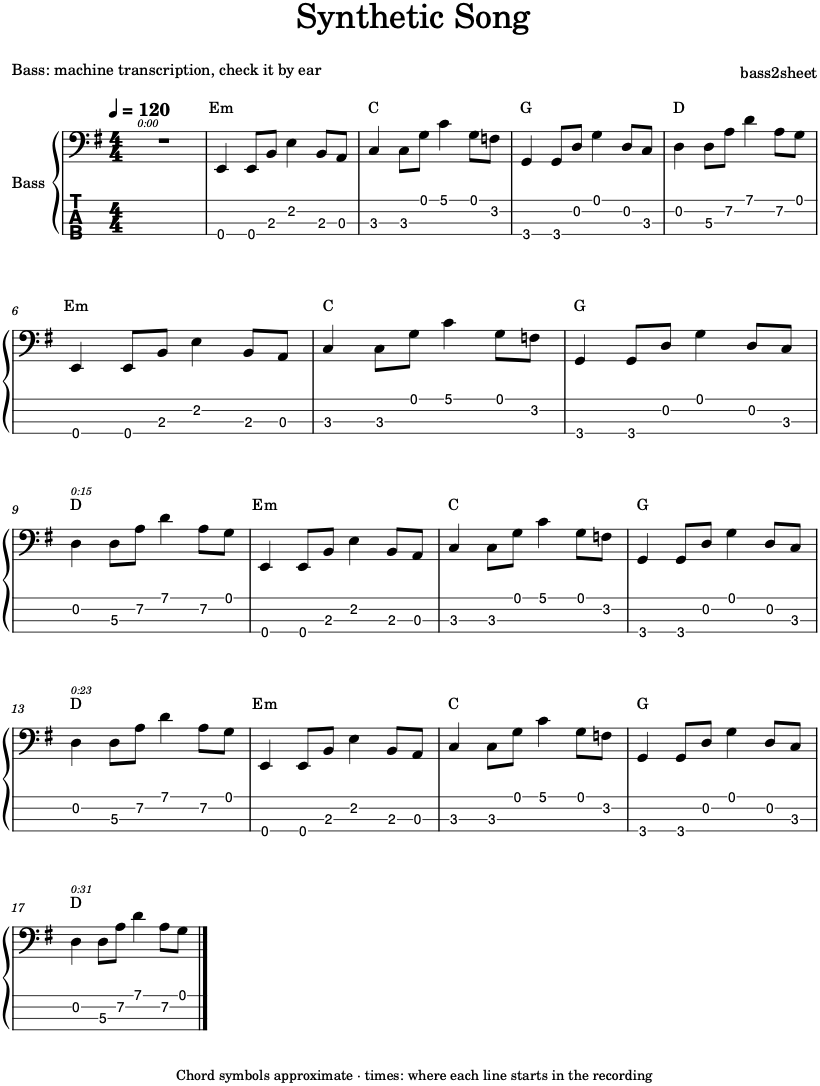
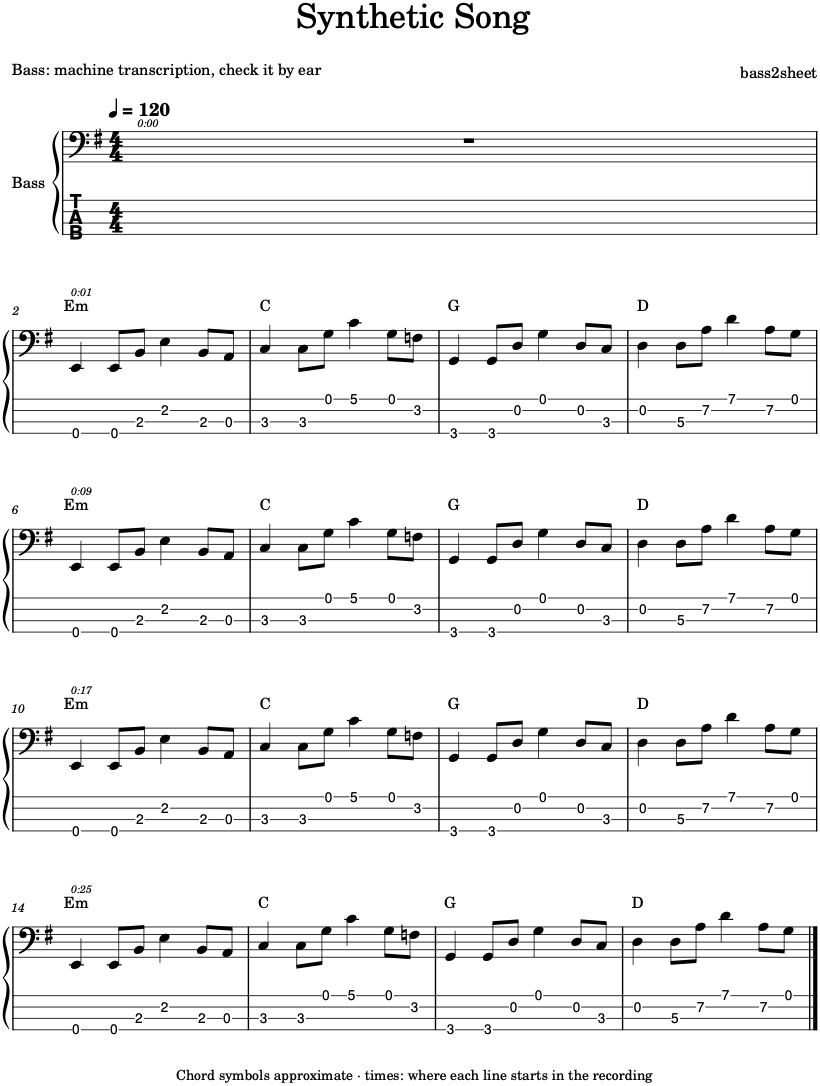
Measured results in README and docs/evaluation.md; MDB and RWC baselines; example score

diff --git a/README.md b/README.md
@@ -64,7 +64,7 @@ A 4-minute song takes about 3 minutes on an M-series MacBook the first time.
 1. **Decode and validate.** Any format to 44.1 kHz stereo. Unreadable, silent, very short or very long input is refused with a message.
 2. **Separate the bass.** BS-RoFormer SW (via [audio-separator](https://github.com/nomadkaraoke/python-audio-separator)) is the default; Demucs `htdemucs_ft` is the fallback when it fails or its result fails the gates.
 3. **Track pitch.** CREPE (Viterbi decoding) on the GPU, with pYIN as a cross-check.
-4. **Find the notes.** Hysteresis on pitch confidence, so a note survives the brief loss of pitch at each pluck; a repeated pitch is split only where the low-band energy jumps; notes hold until the next one; each start moves to where its pluck begins to sound, at 1 ms resolution; notes whose spectrum contradicts their octave are corrected.
+4. **Find the notes.** Hysteresis on pitch confidence, so a note survives the brief loss of pitch at each pluck; a held note is split where the string is plucked again, and only there; notes hold until the next one; each start moves to where its pluck begins to sound, at 1 ms resolution; notes whose spectrum contradicts their octave are corrected.
 5. **Find the grid.** Beats and downbeats come from the [Beat This!](https://github.com/CPJKU/beat_this) model on the full mix. A built-in tracker (beats from drums and bass, the downbeat where the harmony changes) is the fallback. Notes are quantized to sixteenths in 4/4.
 6. **Key and chords.** Rough estimates for the chord symbols and note spelling.
 7. **Engrave.** MusicXML with a tab staff whose fingering comes from a search that keeps the fretting hand in place; MuseScore turns it into the PDF.
@@ -95,7 +95,24 @@ The thresholds come from evaluation runs with ground truth: a gate warns below w
 
 ## Accuracy
 
-<!-- ACCURACY -->
+Version 0.2.0, measured with `bass2sheet-eval`. The full mix goes in, with the same settings for every song.
+
+| Dataset | Songs | Measure | Mean | Median |
+|---|---|---|---|---|
+| BabySlakh: synthetic songs, exact notes | 16 | Notes right: start within 50 ms, exact pitch (F-measure) | 0.88 | 0.95 |
+| | 16 | The same, given the dataset's clean bass track | 0.92 | 0.95 |
+| | 11 | Correct notes written on the right sixteenth of the bar | 0.66 | 0.77 |
+| MDB-bass-synth: real multitrack songs, exact pitch curve | 24 of 71 | Share of the time the bass plays that has the right note | 0.77 | 0.81 |
+| RWC Popular: studio pop, bass transcribed by ear | 24 of 100 | Notes right, start within 100 ms (F-measure) | 0.74 | 0.73 |
+| | | Notes right, start within 50 ms | 0.68 | 0.63 |
+
+What that means in practice:
+
+- **Clean material mostly comes out right.** 12 of the 16 BabySlakh songs score 0.90 or more. Two do badly: one played in very short staccato notes (0.38), and one where over a third of the notes from the separated bass land an octave low (0.49, against 0.87 from the dataset's clean bass track).
+- **Real recordings are harder.** On RWC about a third of the notes differ from the reference: repeated notes written as one long note (14% of the reference's notes), re-attacks the reference does not have (9% of ours) and wrong pitches (6%). The reference was transcribed by ear, so part of the difference is its own.
+- **Pitch is more reliable than rhythmic detail.** Octave errors are 1–3% of the notes.
+- **Tempo is right on nearly every song; bar lines are not.** On BabySlakh, 5 of 11 songs have their notes on the right sixteenth of the bar throughout. On the others the bar lines are off for part or all of the song: finding the downbeat is the hard part, and the fixed 4/4 grid cannot follow a song whose bars change length. RWC scores 1.00 here, but the beat tracker was trained on RWC, so that number says little.
+- **The verdict tracks accuracy.** Over the 80 runs, PASS results averaged 0.96 with none below 0.90, WARN 0.85 and FAIL 0.60. The thresholds were set on these same runs, so expect a looser relation on new songs.
 
 How to reproduce these numbers, and what each dataset can and cannot tell you, is in [docs/evaluation.md](docs/evaluation.md).
 
@@ -104,7 +121,8 @@ How to reproduce these numbers, and what each dataset can and cannot tell you, i
 - The score is always written in 4/4 with straight sixteenths. Other meters and swing are not notated; the meter and grid gates flag them. Tempo changes are followed beat by beat, but the score shows one tempo.
 - One bass line. Two basses at once, and chords on the bass, are out of scope.
 - The tab assumes a 4-string bass in standard tuning.
-- Very short staccato notes (under about 100 ms) are often missed.
+- Very short staccato notes (under about 100 ms) are often missed, and fast repeated notes on one pitch can come out as one long note.
+- A bar of another length (a 2/4 bar in a 4/4 song) shifts the bar lines after it.
 - Chord symbols are rough. Slides, ghost notes and dead notes are not notated.
 
 ## Development

diff --git a/docs/evaluation.md b/docs/evaluation.md
@@ -70,4 +70,63 @@ exits 3 when a mean score over the tracks shared with the baseline falls by more
 
 ## Results
 
-<!-- RESULTS -->
+Version 0.2.0 on an Apple M4 Max, full mixes in, default settings. `eval/baselines/` holds the per-track scores.
+
+### BabySlakh (16 songs with a single bass stem)
+
+| Condition | F | P | R | F name | F 100ms | F+off | 8va↓ | bias | beat pos | bar pos |
+|---|---|---|---|---|---|---|---|---|---|---|
+| mix, mean | 0.88 | 0.91 | 0.87 | 0.91 | 0.88 | 0.73 | 0.03 | +15 ms | 0.95 | 0.66 |
+| mix, median | 0.95 | 0.94 | 0.94 | 0.95 | 0.95 | 0.84 | 0.00 | +11 ms | 0.98 | 0.77 |
+| stem, mean | 0.92 | 0.92 | 0.93 | 0.92 | 0.92 | 0.74 | 0.00 | +13 ms | 0.95 | 0.66 |
+| stem, median | 0.95 | 0.94 | 0.95 | 0.95 | 0.96 | 0.79 | 0.00 | +12 ms | 0.98 | 0.77 |
+
+- 12 of 16 songs score F ≥ 0.90 from the mix. Of the reference's notes, 87% are right, 7% missed, 3% an octave off, 1% merged into a neighbour; of ours, 91% are right, 2% are re-attacks that are not there, 1% ghosts.
+- Separation costs 0.04 of mean F, most of it on three songs: Track00019 (0.49 from the mix, 0.87 from the clean stem; the difference is notes an octave low, not yet explained), Track00009 and Track00008.
+- Track00009 scores 0.38 from the mix and 0.55 from the clean stem. Its notes last about 100 ms, and the pitch tracker reports no pitch on most of them.
+- The grid is measured on the 11 songs whose MIDI has a 4/4 time signature throughout. Tempo is within 2% on 10 of them. Bar position is 0.95 or more on 5. On the others the bar lines are off for part or all of the song; the meter gate (the share of the beat tracker's downbeats that fit one 4/4 phase) is low on those songs, and its rank correlation with bar position is +0.84.
+
+### MDB-bass-synth (24 of 71 songs, evenly spaced through the list)
+
+| | OA | RPA | RCA | note acc | 8va err | voicing recall | voicing false alarm |
+|---|---|---|---|---|---|---|---|
+| mean | 0.81 | 0.77 | 0.78 | 0.77 | 0.01 | 0.92 | 0.05 |
+| median | 0.85 | 0.81 | 0.82 | 0.81 | 0.00 | 0.96 | 0.02 |
+
+Note acc ranges from 0.46 to 0.96. The five lowest are TablaBreakbeatScience_WhoIsIt (0.46), MusicDelta_Disco (0.47), TheSoSoGlos_Emergency (0.51), Creepoid_OldTree (0.59) and EthanHein_BluesForNofi (0.61); why has not been looked into.
+
+### RWC Popular (24 of the 75 songs with one bass track, evenly spaced)
+
+| | F | P | R | F name | F 100ms | F+off | bias | bar pos |
+|---|---|---|---|---|---|---|---|---|
+| mean | 0.68 | 0.70 | 0.66 | 0.71 | 0.74 | 0.42 | +14 ms | 1.00 |
+| median | 0.63 | 0.70 | 0.67 | 0.66 | 0.73 | 0.36 | +13 ms | 1.00 |
+
+- 6 songs score F 100ms ≥ 0.90 and 7 score below 0.60.
+- Of the reference's notes, 66% are right, 14% merged (a repeated note we wrote as one), 7% covered by a note of another pitch, 6% the wrong pitch, 4% missed, 3% an octave off. Of ours, 70% are right, 9% are re-attacks the reference does not have, 8% start inside a reference note of another pitch, 6% are the wrong pitch.
+- Bar position is 0.96 or more on all 21 songs with a 4/4 reference. Beat This! was trained on RWC Popular, so this is not a test of the grid.
+- Nine of these songs were used to choose how held notes are split at re-plucks. They average F 100ms 0.78; the other fifteen average 0.72.
+
+### Verdicts against measured scores
+
+The score is F for BabySlakh, note acc for MDB-bass-synth and F 100ms for RWC.
+
+| Verdict | Runs | Mean score | Lowest | Runs at 0.85 or more |
+|---|---|---|---|---|
+| PASS | 15 | 0.96 | 0.90 | 100% |
+| WARN | 47 | 0.85 | 0.44 | 51% |
+| FAIL | 18 | 0.60 | 0.38 | 6% |
+
+The gate thresholds and the "five warnings fail" rule were set on these runs, so this table is in-sample. The gate that tracks the score best is the share of note starts confirmed by Basic Pitch (rank correlation +0.80 on BabySlakh, +0.77 on MDB, +0.59 on RWC). The meter gate does not track note accuracy; it tracks bar position, which is what it is for. Notes in bars marked "check" are right 68% of the time on BabySlakh, against 88% in other bars; on RWC, 41% against 70%.
+
+### What changed the scores in 0.2.0
+
+| | 0.1.0 | 0.2.0 |
+|---|---|---|
+| BabySlakh, mean F from the mix | 0.75 | 0.88 |
+| BabySlakh, mean F 100ms from the mix | 0.89 | 0.88 |
+| BabySlakh, mean bar position | 0.49 | 0.66 |
+
+- **Note starts** are placed where the pluck begins to sound. 0.1.0 found the same notes 15–25 ms late, which is why its F at 100 ms was already 0.89. This accounts for nearly all of the gain in F.
+- **Beat This!** replaced the built-in beat tracker, which chose the wrong pulse level on 7 BabySlakh songs.
+- **Held notes are split at re-plucks.** Measured on the same stems, this moved mean F on five RWC songs from 0.60 to 0.69 and on BabySlakh from 0.888 to 0.882.

diff --git a/CHANGELOG.md b/CHANGELOG.md
@@ -7,9 +7,10 @@ Measured against ground truth for the first time; the numbers are in `docs/evalu
 - **Evaluation.** `bass2sheet-eval` scores the tool on BabySlakh/Slakh2100 (exact notes and beats), MDB-bass-synth (exact f0 on real mixes) and RWC Popular (aligned MIDI on real recordings), with an error breakdown, a gate-vs-accuracy table and a baseline regression check.
 - **Note starts** move to where the pluck begins to sound, at 1 ms resolution. Frame-level starts were 15–25 ms late.
 - **Beats and downbeats** come from the Beat This! model. The built-in tracker chose the wrong pulse level on about half of the BabySlakh songs.
-- **Quality gates.** The drum-bleed gate is gone: it fired on clean stems. A meter gate (downbeats that fit 4/4) is new. Note coverage no longer penalizes a perfect transcription.
+- **Repeated notes.** A held note is split where the string is plucked again. Driving eighth-note lines came out as single long notes on real recordings.
+- **Quality gates.** Thresholds are set from the evaluation runs, and five warnings at once count as a failure. The drum-bleed and synth-gap gates are gone: they fired on good results. A meter gate (downbeats that fit 4/4) is new; it and the eighth-note gate warn but never fail. Note coverage no longer penalizes a perfect transcription.
 - **Memory.** CREPE's batch is bounded (it could need over 30 GB), and cached GPU memory is released between stages.
-- **Inputs.** `--stems DIR` uses stems you already have. `--bass-stem`, `--beat-tracker`, `--crepe-model`, `--no-pdf`.
+- **Inputs.** `--stems DIR` uses stems you already have. `--bass-stem`, `--beat-tracker`, `--crepe-model`, `--no-pdf`. The shortest accepted input is 10 s.
 - **Score.** Lines start where the bass comes in.
 - **Tests.** Unit tests for every stage and end-to-end tests on a synthesized song, with no recorded audio and no model download; an opt-in tier for real separation and the dataset regression.
 
